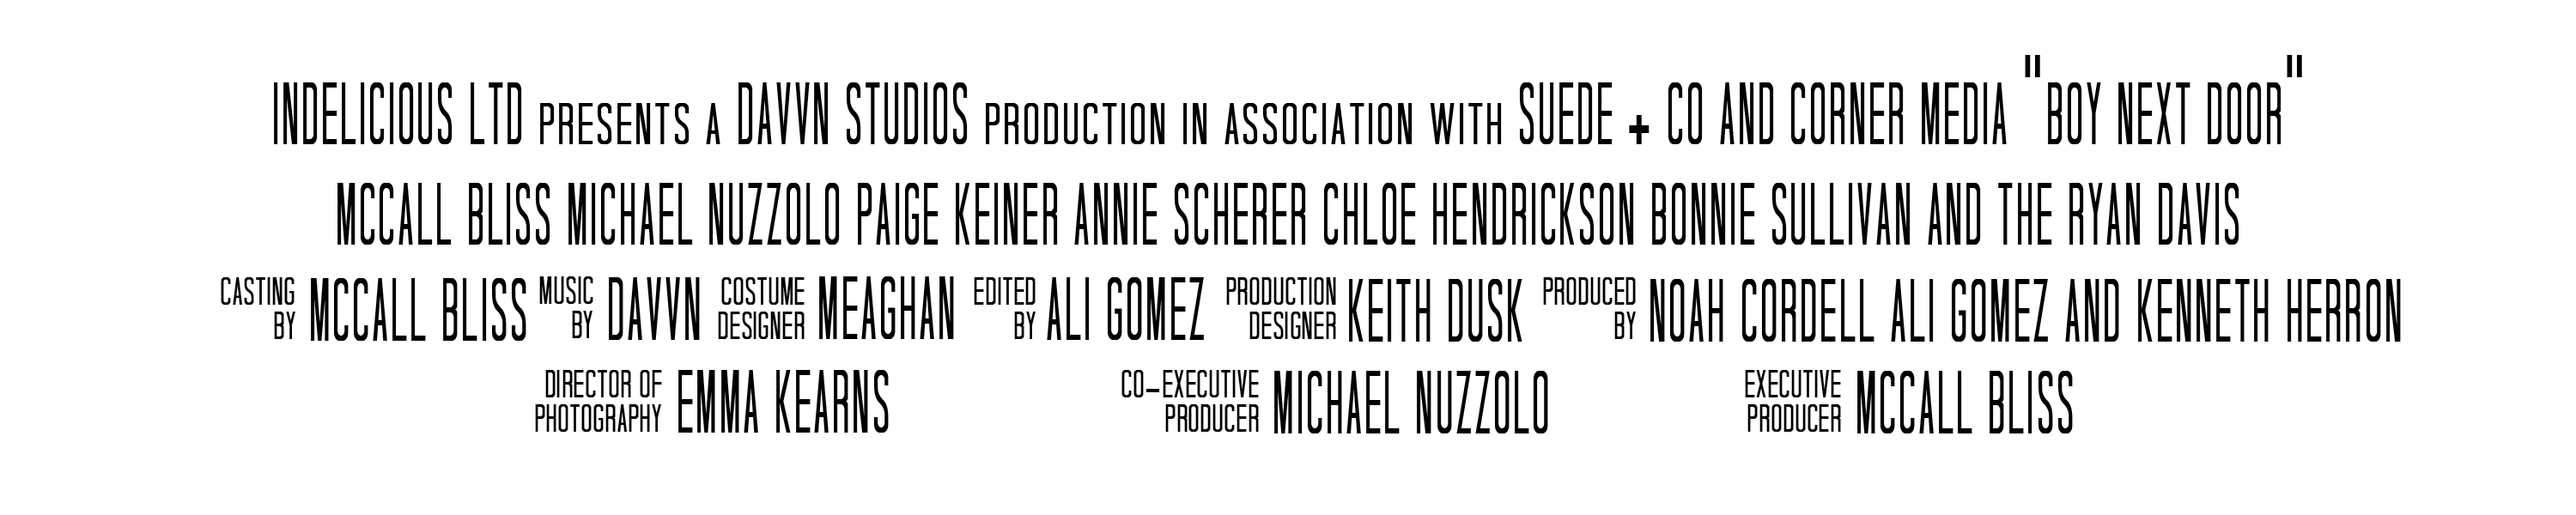
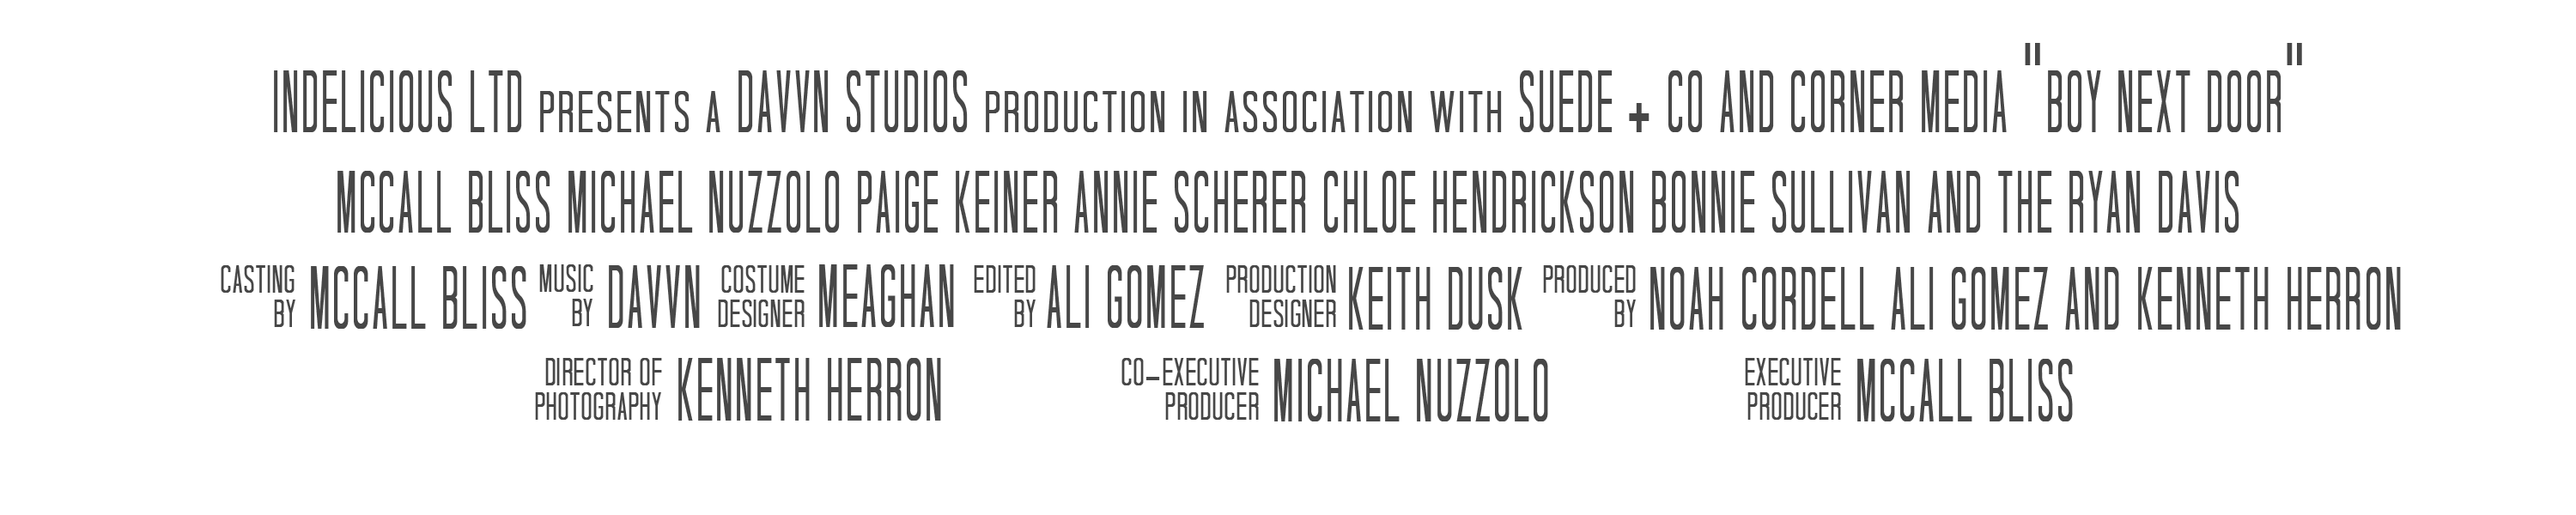
update image assets

diff --git a/index.html b/index.html
@@ -37,7 +37,7 @@
         <tbody>
           <tr>
             <td align="center">
-              <img src="assets/credits-grey.png" width="783" height="99">
+              <img src="assets/credits-black.png" width="783" height="99">
             </td>
           </tr>
           <tr>
